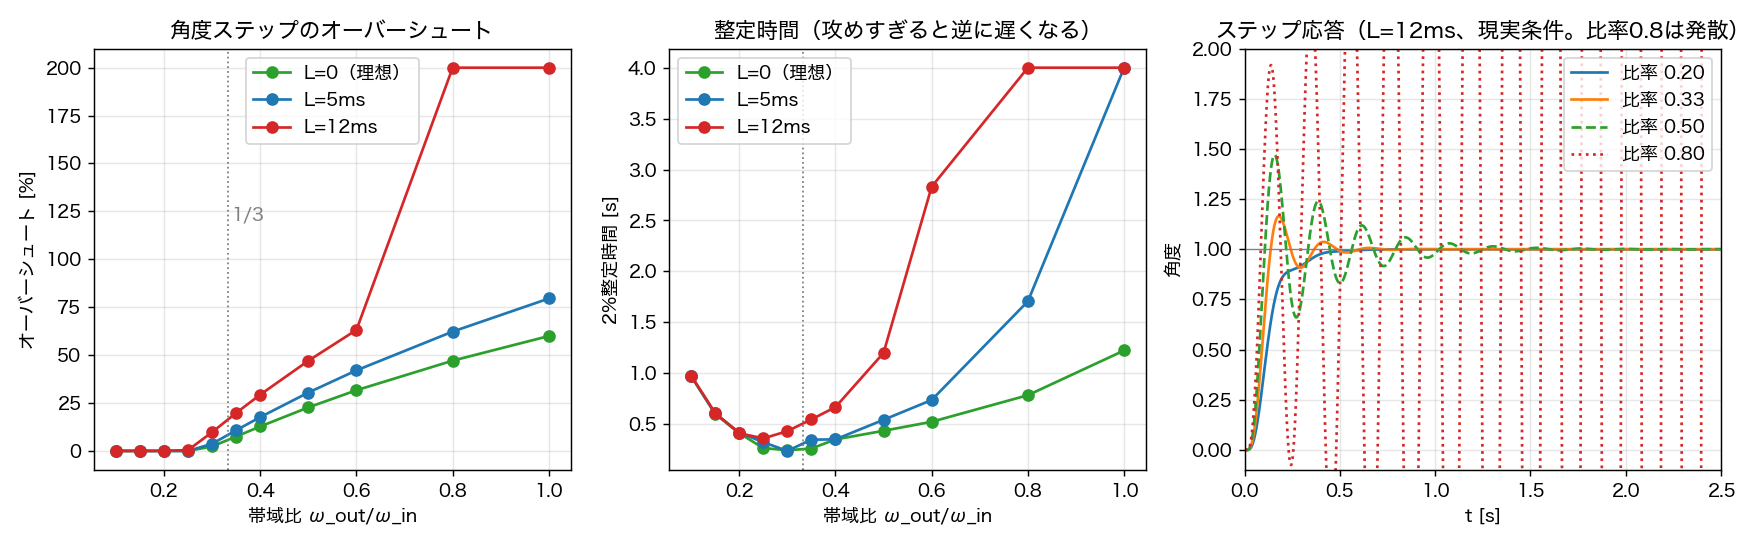
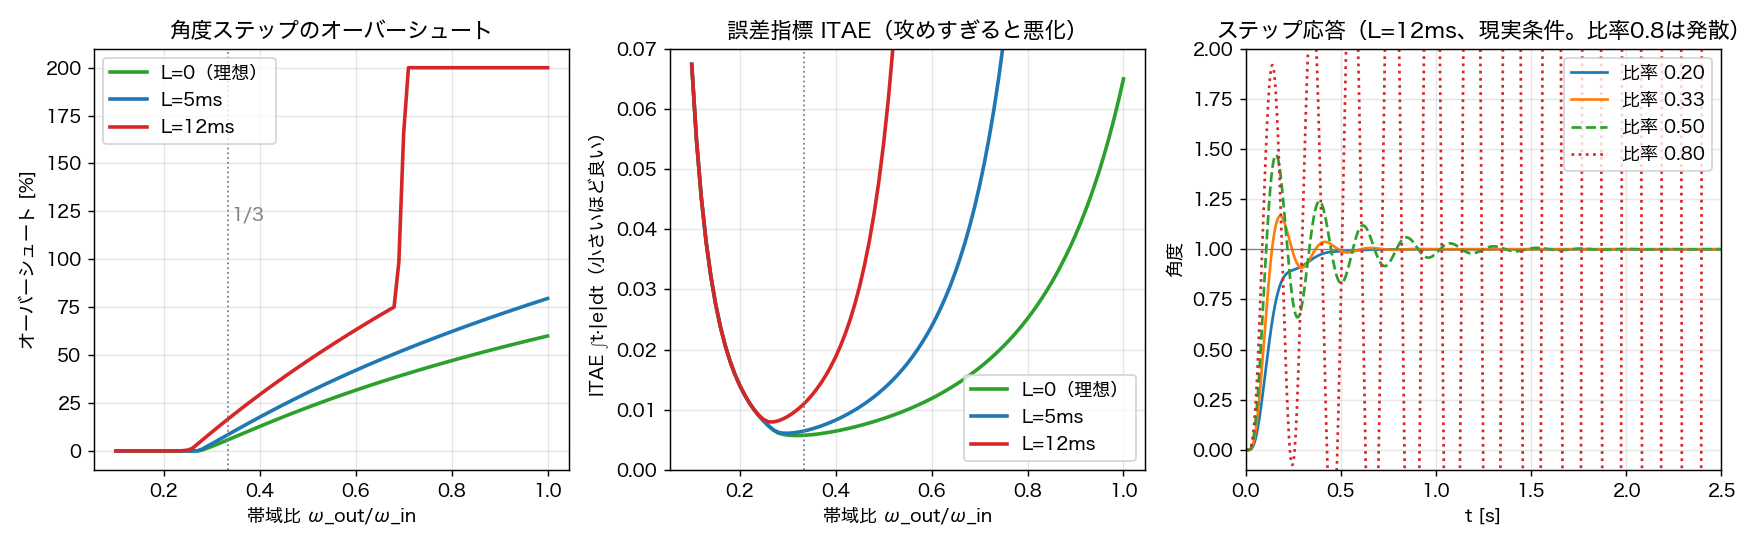
fix(chapters): smooth bandwidth-ratio curve using ITAE metric
Changes:
- Per teacher review: the settling-time-vs-ratio curve looked like a
  polyline. Root causes: (1) coarse 0.05-step sampling, (2) the 2%
  settling metric itself is discontinuous (jumps half a period when
  an oscillation lobe crosses the band)
- Widget: densify sweep to 0.01 steps (precompute ~70ms) and switch
  the plotted metric to ITAE (continuous -> true smooth U-curve);
  keep classic 2% settling in the numeric readout, add ITAE there too
- ITAE minima land at ratio 0.32/0.30/0.26 for L=0/5/12ms -> supports
  the 1/3 rule and the "dead time pushes the optimum lower" finding
  even more cleanly
- Update chapter text/caption/summary to ITAE-based numbers
  (valley 0.26-0.32) and explain why ITAE is used for the curve
- Update python study figure to the same spec (dense + ITAE panel)
- Record review and lesson in qa_log.md

Verification:
- Stubbed-DOM run of all three widgets passes; widget ITAE values
  consistent with python sweep; init 69 ms

Next steps:
- Continue teacher review of chapter 5
- Chapter 6 (loop shaping): Q6-1 pending (target phase margin and
  crossover of the real machine, relation to dead time)

diff --git a/chapters/chapter05.html b/chapters/chapter05.html
@@ -255,6 +255,10 @@
       本当にそうなのか、同定済みの StampFly モデルで確かめてみましょう。
       下の教材で、帯域比 \(\omega_{out}/\omega_{in}\) とむだ時間 \(L\) を動かして、
       角度ステップ応答がどう変わるかを見てください。
+      下段の曲線は応答の良さの指標 <strong>ITAE</strong>
+      （時間重み付き誤差積分 \(\int t\,|e|\,dt\)。誤差の絶対値に経過時間の重みを掛けて
+      足し合わせたもので、あとまで残る誤差ほど重く数える。小さいほど「速く・きれいに」
+      収束）で、谷の位置＝ちょうどよい帯域比です。
     </p>
 
     <div class="sim-panel">
@@ -278,14 +282,19 @@
     <p class="src">
       条件: 内側はレートP（\(\zeta=0.7\) 設計、\(\omega_{in} \approx 36\) rad/s）、外側は角度P。
       むだ時間は制御入力に挿入。破線は帯域比 1/3（同じむだ時間）の参照応答。
+      下段の曲線に ITAE を使うのは、2%整定時間が本質的に不連続な指標
+      （振動の山が±2%帯に触れるか触れないかで値が半周期ぶん飛ぶ）で、
+      曲線として描くと階段状になるため。谷の位置はどちらの指標でもほぼ同じで、
+      選択中の点の2%整定は数値欄に表示している。
       Python での同一解析は notes/calc/cascade_bandwidth_study.py。
     </p>
 
     <div class="note-box">
       <strong>実験結果のまとめ — 「1/3」は経験則ではなく最適点:</strong>
-      整定時間が最小になるのは帯域比 <strong>0.25〜0.3</strong> で、
-      むだ時間が長いほど谷はわずかに低い比率側へ動きます（\(L=0\) で 0.30、
-      12 ms で 0.25）——攻めるなら下側に外すのが安全です。
+      応答が最良になる谷は帯域比 <strong>0.26〜0.32</strong> にあり
+      （ITAE 最小。2%整定の最小でも 0.25〜0.30）、むだ時間が長いほど谷は
+      低い比率側へ動きます（ITAE: \(L=0\) で 0.32、12 ms で 0.26）
+      ——攻めるなら下側に外すのが安全です。
       理想（\(L=0\)）では攻めても壊れ方が優しい——比率 1.0 でもオーバーシュートが
       増えるだけです。ところが現実（\(L=12\) ms）には<strong>崖</strong>があります。
       比率 0.5 で整定は3倍悪化し、<strong>0.8 以上では発散</strong>。
@@ -428,7 +437,7 @@
       <li>内側レートループは <strong>2次系近似</strong>で設計できる:
         \(K_p^{rate} = 1/(4\zeta^2 K \tau)\)。第4章の同定値がそのままゲインになる。</li>
       <li>外側の帯域は内側の <strong>1/3 前後</strong>が最適——シミュレーションでは
-        0.25〜0.3 に整定最小の谷（むだ時間が長いほど低い側へ）。
+        0.26〜0.32 に応答最良（ITAE最小）の谷（むだ時間が長いほど低い側へ）。
         むだ時間のある現実では攻めすぎると<strong>崖</strong>（12 ms なら比率 0.8 で発散）。</li>
       <li>積分器は置き場所で仕事が違う: <strong>内側I＝トルク外乱</strong>、
         <strong>外側I＝計測バイアス</strong>。\(T_i\) は交差周波数の1桁下に置けば位相コスト約2°。</li>
@@ -524,7 +533,7 @@
       const nd = Math.round(o.L / DT);
       const ub = new Float64Array(Math.max(1, nd));
       let head = 0, m = 0, r = 0, th = 0, thf = 0, intR = 0, intA = 0;
-      let peak = -1e9, lastOut = 0;
+      let peak = -1e9, lastOut = 0, itae = 0;
       const step = Math.round(o.sample / DT);
       const ts = [], ys = [];
       for (let i = 0; i < n; i++) {
@@ -546,23 +555,28 @@
         r += acc * DT; th += r * DT;
         if (th > peak) peak = th;
         if (Math.abs(th - o.thRef) > 0.02 * Math.max(1, Math.abs(o.thRef))) lastOut = i;
+        itae += t * Math.abs(th - o.thRef) * DT;   // 時間重み付き誤差積分 / ITAE
         if (i % step === 0) { ts.push(t); ys.push(th); }
       }
       const diverged = !isFinite(th) || Math.abs(th - o.thRef) > 0.5;
       return { ts, ys, final: th, peak, os: Math.max(0, (peak - o.thRef) * 100),
-               settle: (lastOut + 1) * DT, diverged };
+               settle: (lastOut + 1) * DT, itae, diverged };
     }
 
     // ---------- 5.4 bandwidth-separation explorer / 帯域分離エクスプローラ ----------
     (function () {
       const cv = $('bwCanvas'), ctx = cv.getContext('2d');
       const LS = [0, 0.005, 0.012];
+      // 0.01刻み: カーブが折れ線に見えないよう密にサンプリング（約50msで完了）
+      // dense 0.01-step sampling so the curve renders as a curve, not a polyline
       const RATIOS = [];
-      for (let rr = 0.10; rr <= 1.001; rr += 0.05) RATIOS.push(Math.round(rr * 100) / 100);
-      // precompute settling curves / 整定時間カーブを事前計算
+      for (let rr = 0.10; rr <= 1.0005; rr += 0.01) RATIOS.push(Math.round(rr * 1000) / 1000);
+      // 下段の曲線は ITAE。2%整定は振動の山が帯に触れるたびに値が飛ぶ不連続な指標で、
+      // 曲線として描くと階段になるため（数値表示には従来どおり2%整定を使う）
+      // curve metric = ITAE (continuous); 2% settling stays in the numeric readout
       const curves = LS.map(L => RATIOS.map(rr => {
         const res = simCascade({ kpA: rr * W_IN, L });
-        return res.diverged ? NaN : res.settle;
+        return res.diverged ? NaN : res.itae;
       }));
       const lColor = { 0: '#2e8b57', 0.005: '#0b5cad', 0.012: '#c2373b' };
       const lLabel = { 0: 'L=0（理想）', 0.005: 'L=5ms', 0.012: 'L=12ms' };
@@ -592,9 +606,9 @@
         ctx.fillStyle = c.fg; ctx.textAlign = 'center';
         ctx.fillText('時間 [s]（0〜2.5 s、角度ステップ指令）', x0 + w / 2, 30 + hTop + 16);
 
-        // --- bottom: settling vs ratio / 下: 整定時間 vs 帯域比 ---
-        const yB = 330, hB = 180, tsMax = 4;
-        drawAxes(ctx, x0, yB, w, hB, '0', String(tsMax), '2%整定 [s]');
+        // --- bottom: ITAE vs ratio / 下: 誤差指標 ITAE vs 帯域比 ---
+        const yB = 330, hB = 180, iMax = 0.07;
+        drawAxes(ctx, x0, yB, w, hB, '0', String(iMax), '誤差指標 ITAE');
         // 1/3 marker
         const xThird = x0 + ((1 / 3 - 0.1) / 0.9) * w;
         ctx.strokeStyle = c.border; ctx.setLineDash([3, 3]);
@@ -605,9 +619,9 @@
         LS.forEach((Lv, k) => {
           const xs = [], ys = [];
           RATIOS.forEach((rr, i) => {
-            if (isFinite(curves[k][i])) { xs.push(rr); ys.push(Math.min(curves[k][i], tsMax)); }
+            if (isFinite(curves[k][i])) { xs.push(rr); ys.push(Math.min(curves[k][i], iMax)); }
           });
-          plotXY(ctx, xs, ys, x0, yB, w, hB, 0.1, 1.0, 0, tsMax, lColor[Lv], Lv !== L, Lv === L ? 2.5 : 1.4);
+          plotXY(ctx, xs, ys, x0, yB, w, hB, 0.1, 1.0, 0, iMax, lColor[Lv], Lv !== L, Lv === L ? 2.5 : 1.4);
         });
         ctx.font = '12px sans-serif'; ctx.textAlign = 'left';
         LS.forEach((Lv, k) => {
@@ -617,7 +631,7 @@
         // current point marker / 現在位置マーカー
         if (!cur.diverged) {
           const px = x0 + ((ratio - 0.1) / 0.9) * w;
-          const py = yB + hB * ((tsMax - Math.min(cur.settle, tsMax)) / tsMax);
+          const py = yB + hB * ((iMax - Math.min(cur.itae, iMax)) / iMax);
           ctx.fillStyle = lColor[L];
           ctx.beginPath(); ctx.arc(px, py, 6, 0, 2 * Math.PI); ctx.fill();
           ctx.strokeStyle = c.fg; ctx.lineWidth = 1.5; ctx.stroke();
@@ -628,7 +642,7 @@
         const settleTxt = cur.settle > 3.9 ? '4 s超' : cur.settle.toFixed(2) + ' s';
         $('bwReadout').textContent = cur.diverged
           ? `K_p^ang = ${(ratio * W_IN).toFixed(1)} 1/s | 発散！ むだ時間 ${(L * 1e3).toFixed(0)} ms では帯域比 ${ratio.toFixed(2)} は不安定です`
-          : `K_p^ang = ${(ratio * W_IN).toFixed(1)} 1/s | オーバーシュート ${cur.os.toFixed(1)} % | 2%整定 ${settleTxt}`;
+          : `K_p^ang = ${(ratio * W_IN).toFixed(1)} 1/s | オーバーシュート ${cur.os.toFixed(1)} % | 2%整定 ${settleTxt} | ITAE ${cur.itae.toFixed(4)}`;
       }
 
       $('bwRatio').addEventListener('input', redraw);

diff --git a/notes/calc/cascade_bandwidth_study.py b/notes/calc/cascade_bandwidth_study.py
@@ -75,6 +75,23 @@ for L in (0.0, 0.005, 0.012):
         flag = "" if ok and ov < 500 else "  ← 破綻"
         print(f"  {rr:4.2f}  {min(ov,999):6.1f}  {st:6.2f}{flag}")
 
+# dense sweep for the plot / 曲線用の密な掃引（0.01刻み・折れ線防止、表は上の粗い刻みのまま）
+# 下段の曲線は ITAE = ∫t·|e|dt。2%整定は「振動の山が帯に触れるか」で値が半周期ぶん
+# 飛ぶ本質的に不連続な指標のため、曲線表示には連続な ITAE を使う（谷の位置はほぼ同じ:
+# ITAE最小 L=0/5/12ms → 比率 0.32/0.30/0.26。2%整定最小は 0.30/0.30/0.25）。
+ratios_plot = np.round(np.arange(0.10, 1.0001, 0.01), 3)
+tvec_full = np.arange(int(T_END / DT)) * DT
+plot_results = {}
+for L in (0.0, 0.005, 0.012):
+    rows = []
+    for rr in ratios_plot:
+        y = simulate(rr * W_IN, L)
+        ov, _ = metrics(y)
+        ok = np.isfinite(y[-1]) and abs(y[-1] - 1) < 0.5
+        itae = np.sum(tvec_full * np.abs(y - 1.0)) * DT if ok else np.nan
+        rows.append((rr, ov, itae, ok))
+    plot_results[L] = rows
+
 # ---- plot ----
 import matplotlib
 matplotlib.use("Agg")
@@ -91,12 +108,12 @@ if jp:
 fig, axes = plt.subplots(1, 3, figsize=(13.5, 4.2))
 colors = {0.0: "tab:green", 0.005: "tab:blue", 0.012: "tab:red"}
 labels = {0.0: "L=0（理想）", 0.005: "L=5ms", 0.012: "L=12ms"}
-for L, rows in results.items():
+for L, rows in plot_results.items():
     rs = [r[0] for r in rows]
     ov = [min(r[1], 200) for r in rows]
     st = [r[2] for r in rows]
-    axes[0].plot(rs, ov, "o-", color=colors[L], label=labels[L])
-    axes[1].plot(rs, st, "o-", color=colors[L], label=labels[L])
+    axes[0].plot(rs, ov, "-", lw=2, color=colors[L], label=labels[L])
+    axes[1].plot(rs, st, "-", lw=2, color=colors[L], label=labels[L])
 axes[0].axvline(1/3, color="gray", ls=":", lw=1)
 axes[0].text(0.34, 120, "1/3", color="gray")
 axes[0].set_xlabel("帯域比 ω_out/ω_in")
@@ -105,8 +122,9 @@ axes[0].set_title("角度ステップのオーバーシュート")
 axes[0].legend(); axes[0].grid(alpha=0.3)
 axes[1].axvline(1/3, color="gray", ls=":", lw=1)
 axes[1].set_xlabel("帯域比 ω_out/ω_in")
-axes[1].set_ylabel("2%整定時間 [s]")
-axes[1].set_title("整定時間（攻めすぎると逆に遅くなる）")
+axes[1].set_ylabel("ITAE ∫t·|e|dt（小さいほど良い）")
+axes[1].set_title("誤差指標 ITAE（攻めすぎると悪化）")
+axes[1].set_ylim(0, 0.07)
 axes[1].legend(); axes[1].grid(alpha=0.3)
 tvec = np.arange(int(T_END / DT)) * DT
 for rr, lsty in [(0.2, "-"), (1/3, "-"), (0.5, "--"), (0.8, ":")]: